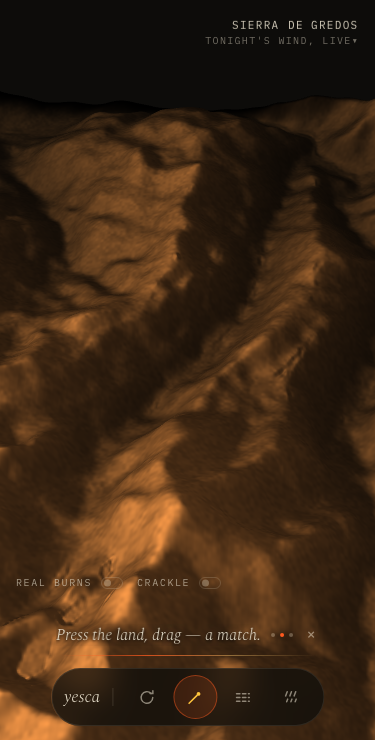
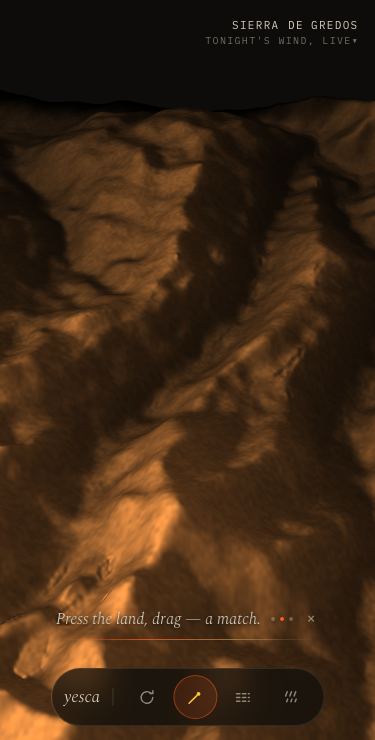
r6: world first, chrome after; flash anchored to its tool
Round-5 review fixes:
- HUD (masthead, instruments, rail, tray) stays hidden until the
  milling reveal crosses half — no more chrome-before-world. Stage
  fires onRevealed at uReveal>0.5; place switches do not re-hide.
- First-light pass: a warm directional glow rides the reveal front
  (built*(1-built) band weighted by dif) so the opening is a lit
  event over the relief, not a fade.
- toolflash now anchors to the pressed button's center (inline left
  from getBoundingClientRect, keys resolve the same way) and remounts
  per switch so rapid toggles restart the flash cleanly.
- haptic nudge on every tool switch and both levers.
- Tour focus: rail and instruments fold (opacity 0, no events) while
  the guide teaches; share chip waits for guide done; guide lifted to
  bottom:100px on mobile for tray separation.
- probe-m3 now completes step 3 with a real firebreak drag before
  toggling real burns.

Generated with [Devin](https://devin.ai)

diff --git a/src/App.tsx b/src/App.tsx
@@ -77,11 +77,11 @@ export default function App() {
   const [tool, setTool] = useState<Tool>("match");
   const toolRef = useRef<Tool>("match");
   toolRef.current = tool;
-  const [toolFlash, setToolFlash] = useState(false);
-  const flashTool = () => setToolFlash(true);
+  const [toolFlash, setToolFlash] = useState<{ n: number; x: number } | null>(null);
+  const flashTool = (x = innerWidth / 2) => setToolFlash({ n: Date.now(), x });
   useEffect(() => {
     if (!toolFlash) return;
-    const t = setTimeout(() => setToolFlash(false), 1300);
+    const t = setTimeout(() => setToolFlash(null), 1300);
     return () => clearTimeout(t);
   }, [toolFlash]);
   const [guideStep, setGuideStep] = useState<GuideStep>(
@@ -130,6 +130,8 @@ export default function App() {
           return;
         }
         const stage = new Stage(canvasRef.current!, terr.field);
+        // the chrome waits for the world — instruments rise only once the land exists
+        stage.onRevealed = () => document.body.classList.add("revealed");
         const linear = !!g.getExtension("OES_texture_float_linear");
         const sim = new Sim(stage.renderer, terr.heightTexData, wx, placeSeed(p), linear);
         stage.attachSim(sim);
@@ -483,7 +485,11 @@ export default function App() {
       if (sheetsOpen) return;
       const map: Record<string, Tool> = { "1": "orbit", "2": "match", "3": "break", "4": "rain", o: "orbit", m: "match", b: "break", r: "rain" };
       const t = map[e.key];
-      if (t) { setTool(t); flashTool(); }
+      if (t) {
+        setTool(t);
+        const b = document.querySelector(`[data-tool="${t}"]`)?.getBoundingClientRect();
+        flashTool(b ? b.left + b.width / 2 : innerWidth / 2);
+      }
       if (e.key === "?") {
         setGuideStep("orbit");
         localStorage.removeItem(GUIDE_KEY);
@@ -499,6 +505,7 @@ export default function App() {
     const next = !burnsOn;
     setBurnsOn(next);
     r.stage.hotspotShow = next;
+    haptics.current.trigger("nudge").catch(() => {});
     if (next) {
       // the satellites answer out loud — the one fact no demo can fake
       const call = (n: number) => {
@@ -529,6 +536,7 @@ export default function App() {
   const toggleSound = () => {
     const next = !soundOn;
     setSoundOn(next);
+    haptics.current.trigger("nudge").catch(() => {});
     const c = crackleRef.current;
     if (next) c.start();
     else c.stop();
@@ -623,7 +631,7 @@ export default function App() {
             </div>
           </div>
 
-          <div className="rail">
+          <div className={`rail ${guideStep !== "done" ? "dim" : ""}`}>
             <button
               className={`lever ${burnsOn ? "on" : ""}`}
               onClick={toggleBurns}
@@ -646,7 +654,7 @@ export default function App() {
             </button>
           </div>
 
-          {burntKm2 > 0.004 && !shareOpen && (
+          {burntKm2 > 0.004 && !shareOpen && guideStep === "done" && (
             <button
               className="sharechip"
               onClick={(e) => {
@@ -670,7 +678,12 @@ export default function App() {
                 key={t}
                 data-tool={t}
                 className={`tbtn ${tool === t ? "on" : ""}`}
-                onClick={() => { setTool(t); flashTool(); }}
+                onClick={(e) => {
+                  setTool(t);
+                  const b = e.currentTarget.getBoundingClientRect();
+                  flashTool(b.left + b.width / 2);
+                  haptics.current.trigger("nudge").catch(() => {});
+                }}
                 aria-pressed={tool === t}
                 title={`${TOOL_LABEL[t]} (${t === "orbit" ? "1" : t === "match" ? "2" : t === "break" ? "3" : "4"})`}
               >
@@ -678,9 +691,9 @@ export default function App() {
               </button>
             ))}
           </nav>
-          {/* the tool's name answers the switch, then gets out of the way */}
+          {/* the tool's name answers the switch from the button that asked, then drops */}
           {toolFlash && (
-            <div className="toolflash" aria-hidden>
+            <div key={toolFlash.n} className="toolflash" style={{ left: toolFlash.x }} aria-hidden>
               <TextMorph>{TOOL_LABEL[tool]}</TextMorph>
             </div>
           )}

diff --git a/src/index.css b/src/index.css
@@ -103,8 +103,16 @@ canvas.stage[data-tool="rain"] { cursor: s-resize; }
   padding: 18px 22px;
   pointer-events: none;
   z-index: 20;
-  animation: hud-in 700ms var(--ease-out) 150ms backwards;
 }
+/* no chrome before world: HUD waits for the milling front to light the relief */
+body:not(.revealed) .masthead,
+body:not(.revealed) .instruments,
+body:not(.revealed) .rail,
+body:not(.revealed) .tray { opacity: 0; visibility: hidden; }
+body.revealed .masthead { animation: hud-in 700ms var(--ease-out) 150ms backwards; }
+body.revealed .instruments { animation: hud-in 700ms var(--ease-out) 500ms backwards; }
+body.revealed .rail { animation: hud-in 700ms var(--ease-out) 650ms backwards; }
+body.revealed .tray { animation: hud-in-c 700ms var(--ease-out) 300ms backwards; }
 @keyframes hud-in {
   from { opacity: 0; transform: translateY(6px); }
   to { opacity: 1; transform: none; }
@@ -130,7 +138,6 @@ canvas.stage[data-tool="rain"] { cursor: s-resize; }
   font-family: "IBM Plex Mono", monospace;
   pointer-events: none;
   z-index: 15;
-  animation: hud-in 700ms var(--ease-out) 500ms backwards;
   transition: opacity 300ms var(--ease-out);
 }
 .inst .v {
@@ -184,8 +191,10 @@ canvas.stage[data-tool="rain"] { cursor: s-resize; }
   display: flex; flex-direction: row; align-items: center; gap: 16px;
   font-family: "IBM Plex Mono", monospace;
   z-index: 15;
-  animation: hud-in 700ms var(--ease-out) 650ms backwards;
+  transition: opacity 300ms var(--ease-out);
 }
+/* the tour owns the lower-left corner while it teaches */
+.rail.dim, .instruments.dim { opacity: 0; pointer-events: none; }
 .lever {
   display: flex; align-items: center; gap: 9px;
   background: none; border: none; cursor: pointer;
@@ -235,7 +244,6 @@ canvas.stage[data-tool="rain"] { cursor: s-resize; }
   backdrop-filter: blur(14px);
   pointer-events: auto;
   z-index: 15;
-  animation: hud-in-c 700ms var(--ease-out) 300ms backwards;
 }
 @keyframes hud-in-c {
   from { opacity: 0; transform: translateX(-50%) translateY(6px); }
@@ -277,6 +285,7 @@ canvas.stage[data-tool="rain"] { cursor: s-resize; }
 .tbtn:focus-visible { outline: 1px solid var(--amber); outline-offset: 2px; }
 /* tool switch answer: a name the dock says once, then drops */
 .toolflash {
+  /* left is set inline to the pressed button's center — the word rises from its tool */
   position: fixed; left: 50%; bottom: 74px; transform: translateX(-50%);
   z-index: 25; pointer-events: none;
   font-family: "IBM Plex Mono", monospace; font-size: 10px;
@@ -516,8 +525,6 @@ canvas.stage[data-tool="rain"] { cursor: s-resize; }
   .instruments {
     left: 16px; bottom: 96px; gap: 12px;
   }
-  /* while the guide is teaching, the instruments step back */
-  .instruments.dim { opacity: 0; transition: opacity 300ms var(--ease-out); }
   .inst .v { font-size: 14px; }
   .inst.burnt, .inst:nth-child(4) { display: none; }
   .vane { width: 36px; height: 36px; }
@@ -529,7 +536,7 @@ canvas.stage[data-tool="rain"] { cursor: s-resize; }
   .tray { bottom: 14px; padding: 6px 10px 6px 12px; }
   .dock-brand span { display: none; }
   .tbtn { width: 44px; height: 44px; }
-  .guide { bottom: 84px; max-width: 88vw; gap: 10px; }
+  .guide { bottom: 100px; max-width: 88vw; gap: 10px; }
   /* the dots carry the step count; the kicker is what pushed the row wide */
   .guide .g-k { display: none; }
   .g-line { overflow: hidden; text-overflow: ellipsis; }

diff --git a/src/engine/Stage.ts b/src/engine/Stage.ts
@@ -76,6 +76,8 @@ export class Stage {
   lastInput = 0;
   revealT = 0;
   revealSpeed = 1.8;
+  onRevealed?: () => void;
+  private revealedFired = false;
   idleDrift = true;
   terrain: TerrainField;
 
@@ -259,6 +261,7 @@ export class Stage {
     this.focusT = 0;
     this.revealT = 0;
     this.terrainMat.uniforms.uReveal!.value = 0;
+    this.revealedFired = false;
     this.setHotspots([]);
   }
 
@@ -424,6 +427,10 @@ export class Stage {
       this.revealT = Math.min(1, this.revealT + dt / this.revealSpeed);
       const e = 1 - Math.pow(1 - this.revealT, 3);
       this.terrainMat.uniforms.uReveal!.value = e;
+      if (!this.revealedFired && e > 0.5) {
+        this.revealedFired = true;
+        this.onRevealed?.();
+      }
     }
 
     this.terrainMat.uniforms.uState!.value = sim.dynA.texture;

diff --git a/src/engine/shaders.ts b/src/engine/shaders.ts
@@ -302,6 +302,9 @@ void main() {
   rr += (hash(floor(vUv * 26.0)) - 0.5) * 0.16;
   float built = smoothstep(rr, rr + 0.16, uReveal * 1.3);
   col *= built;
+  // first light rides the milling front — the reveal is a lit pass over the relief
+  float front = built * (1.0 - built) * 4.0;
+  col += uHi * front * (0.2 + 0.8 * dif) * 0.5;
 
   frag = vec4(col, 1.0);
 }
